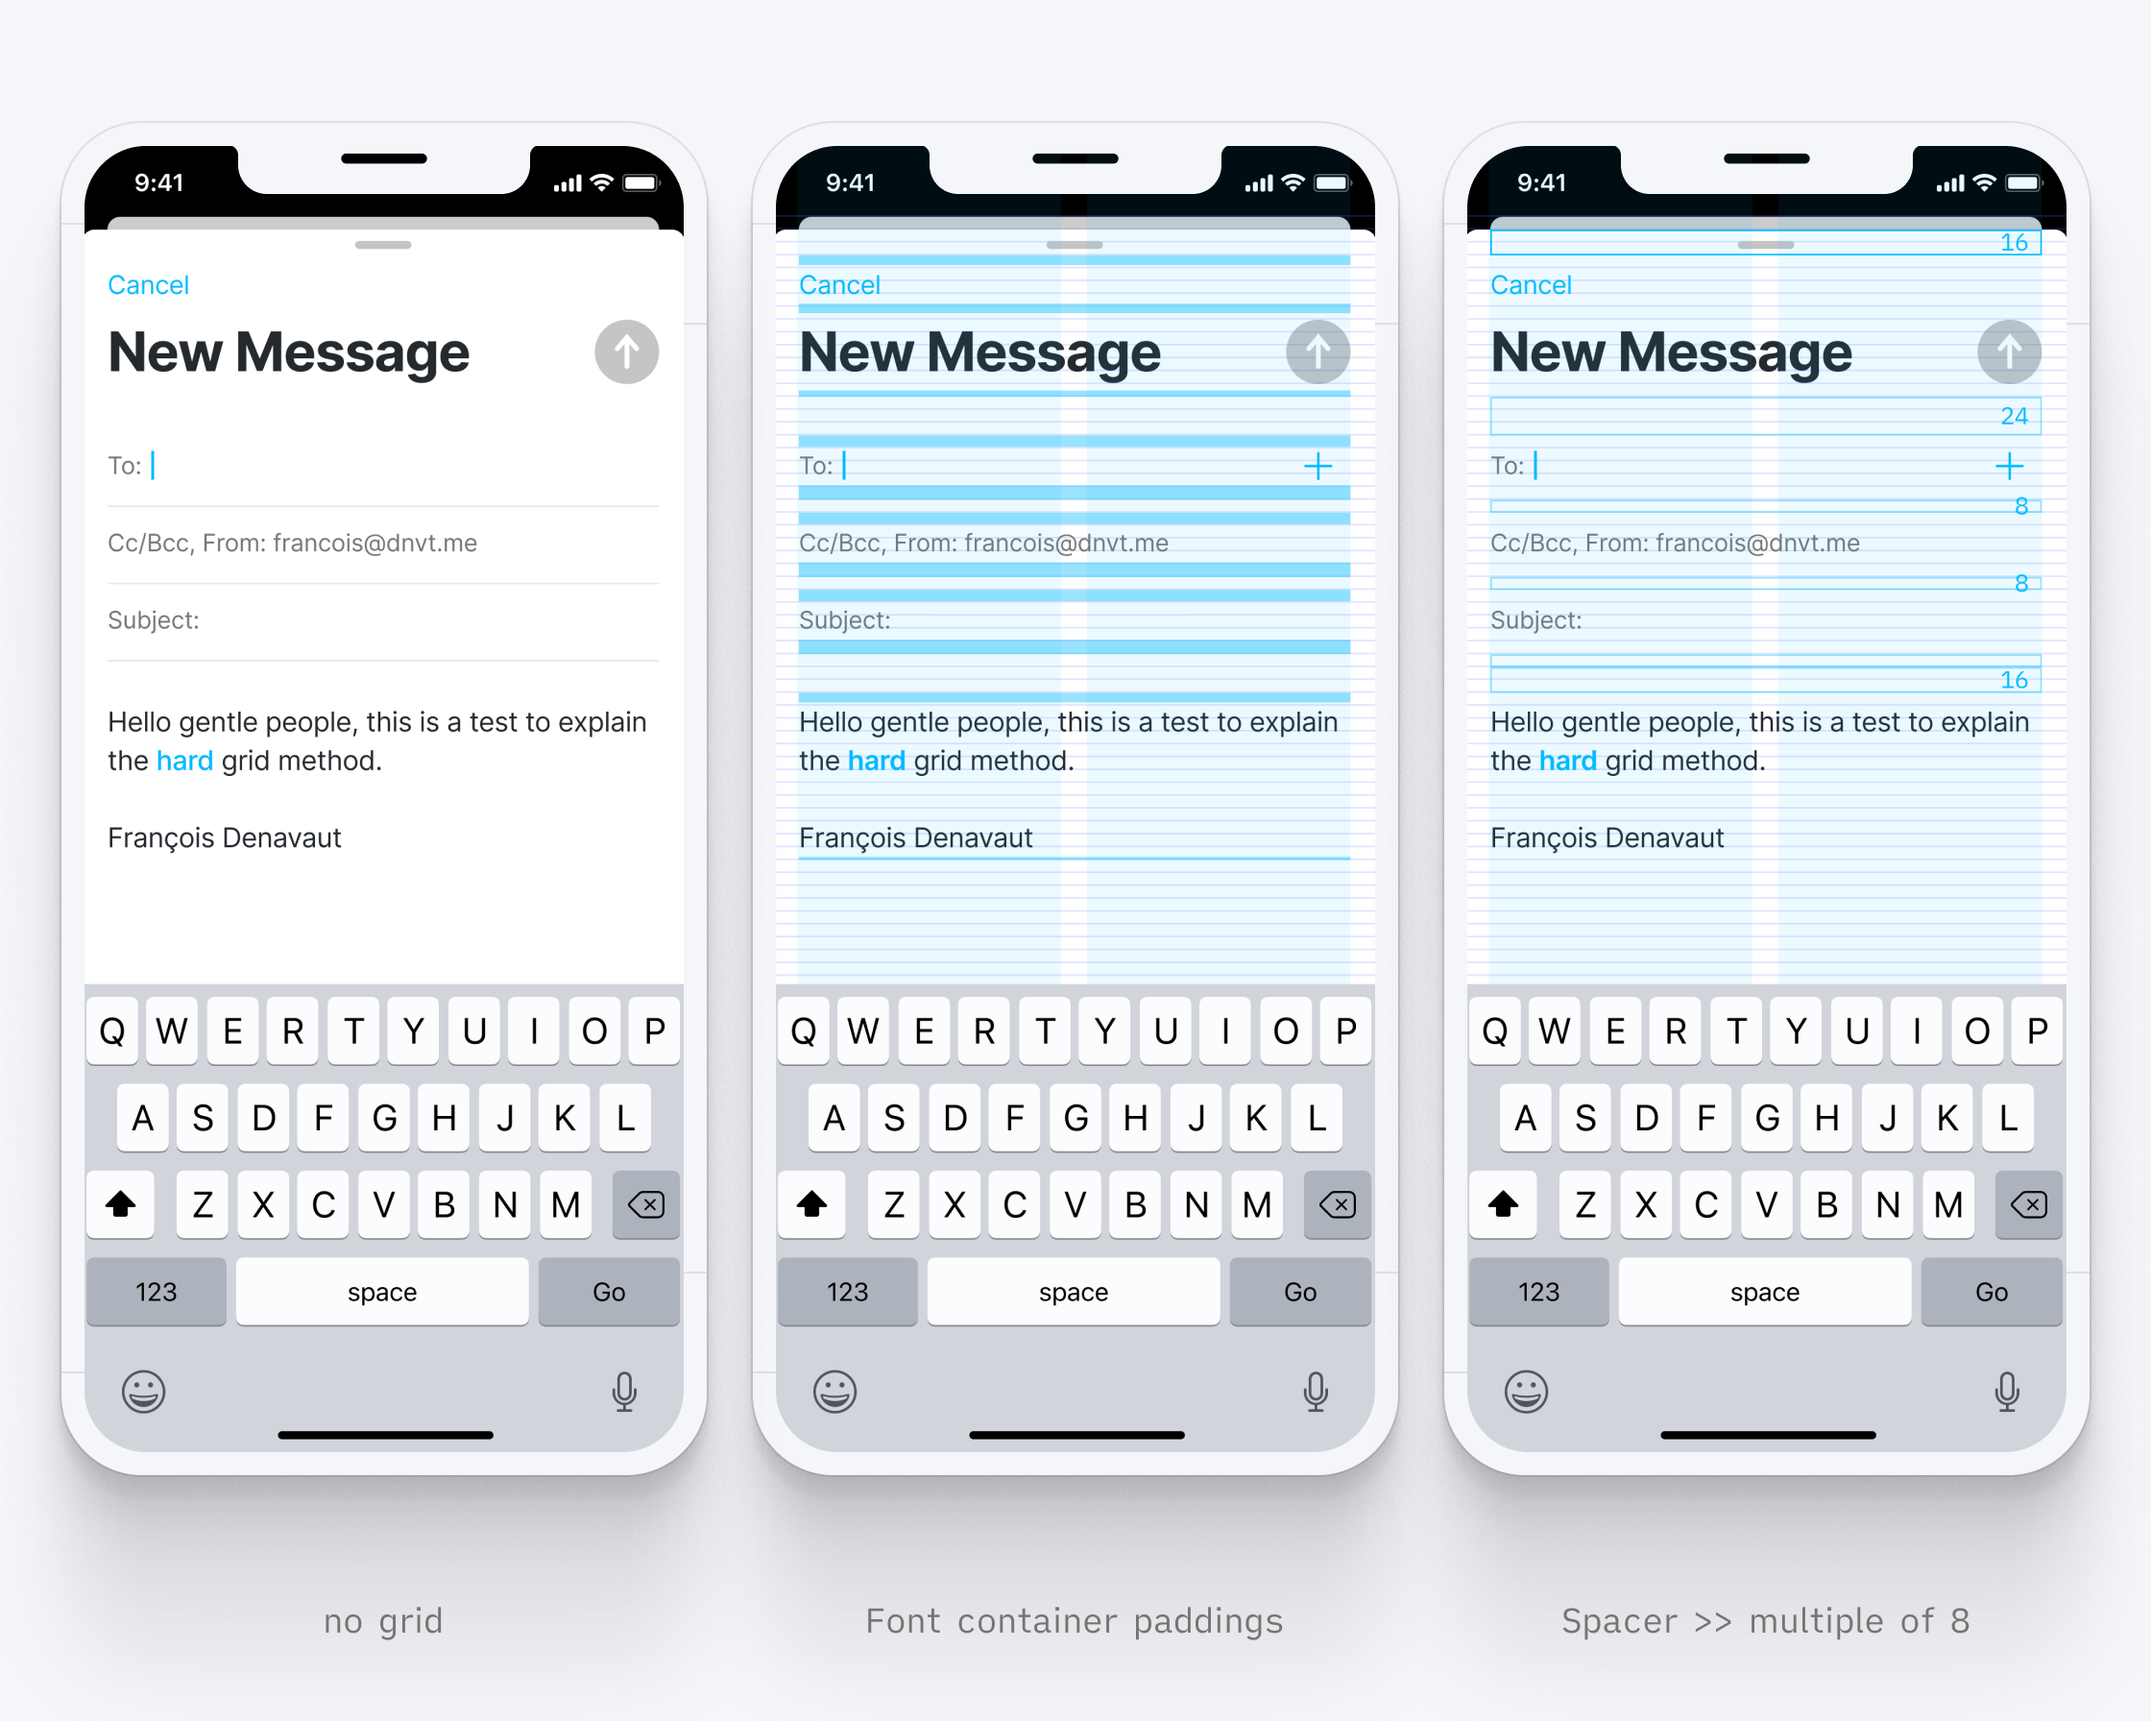
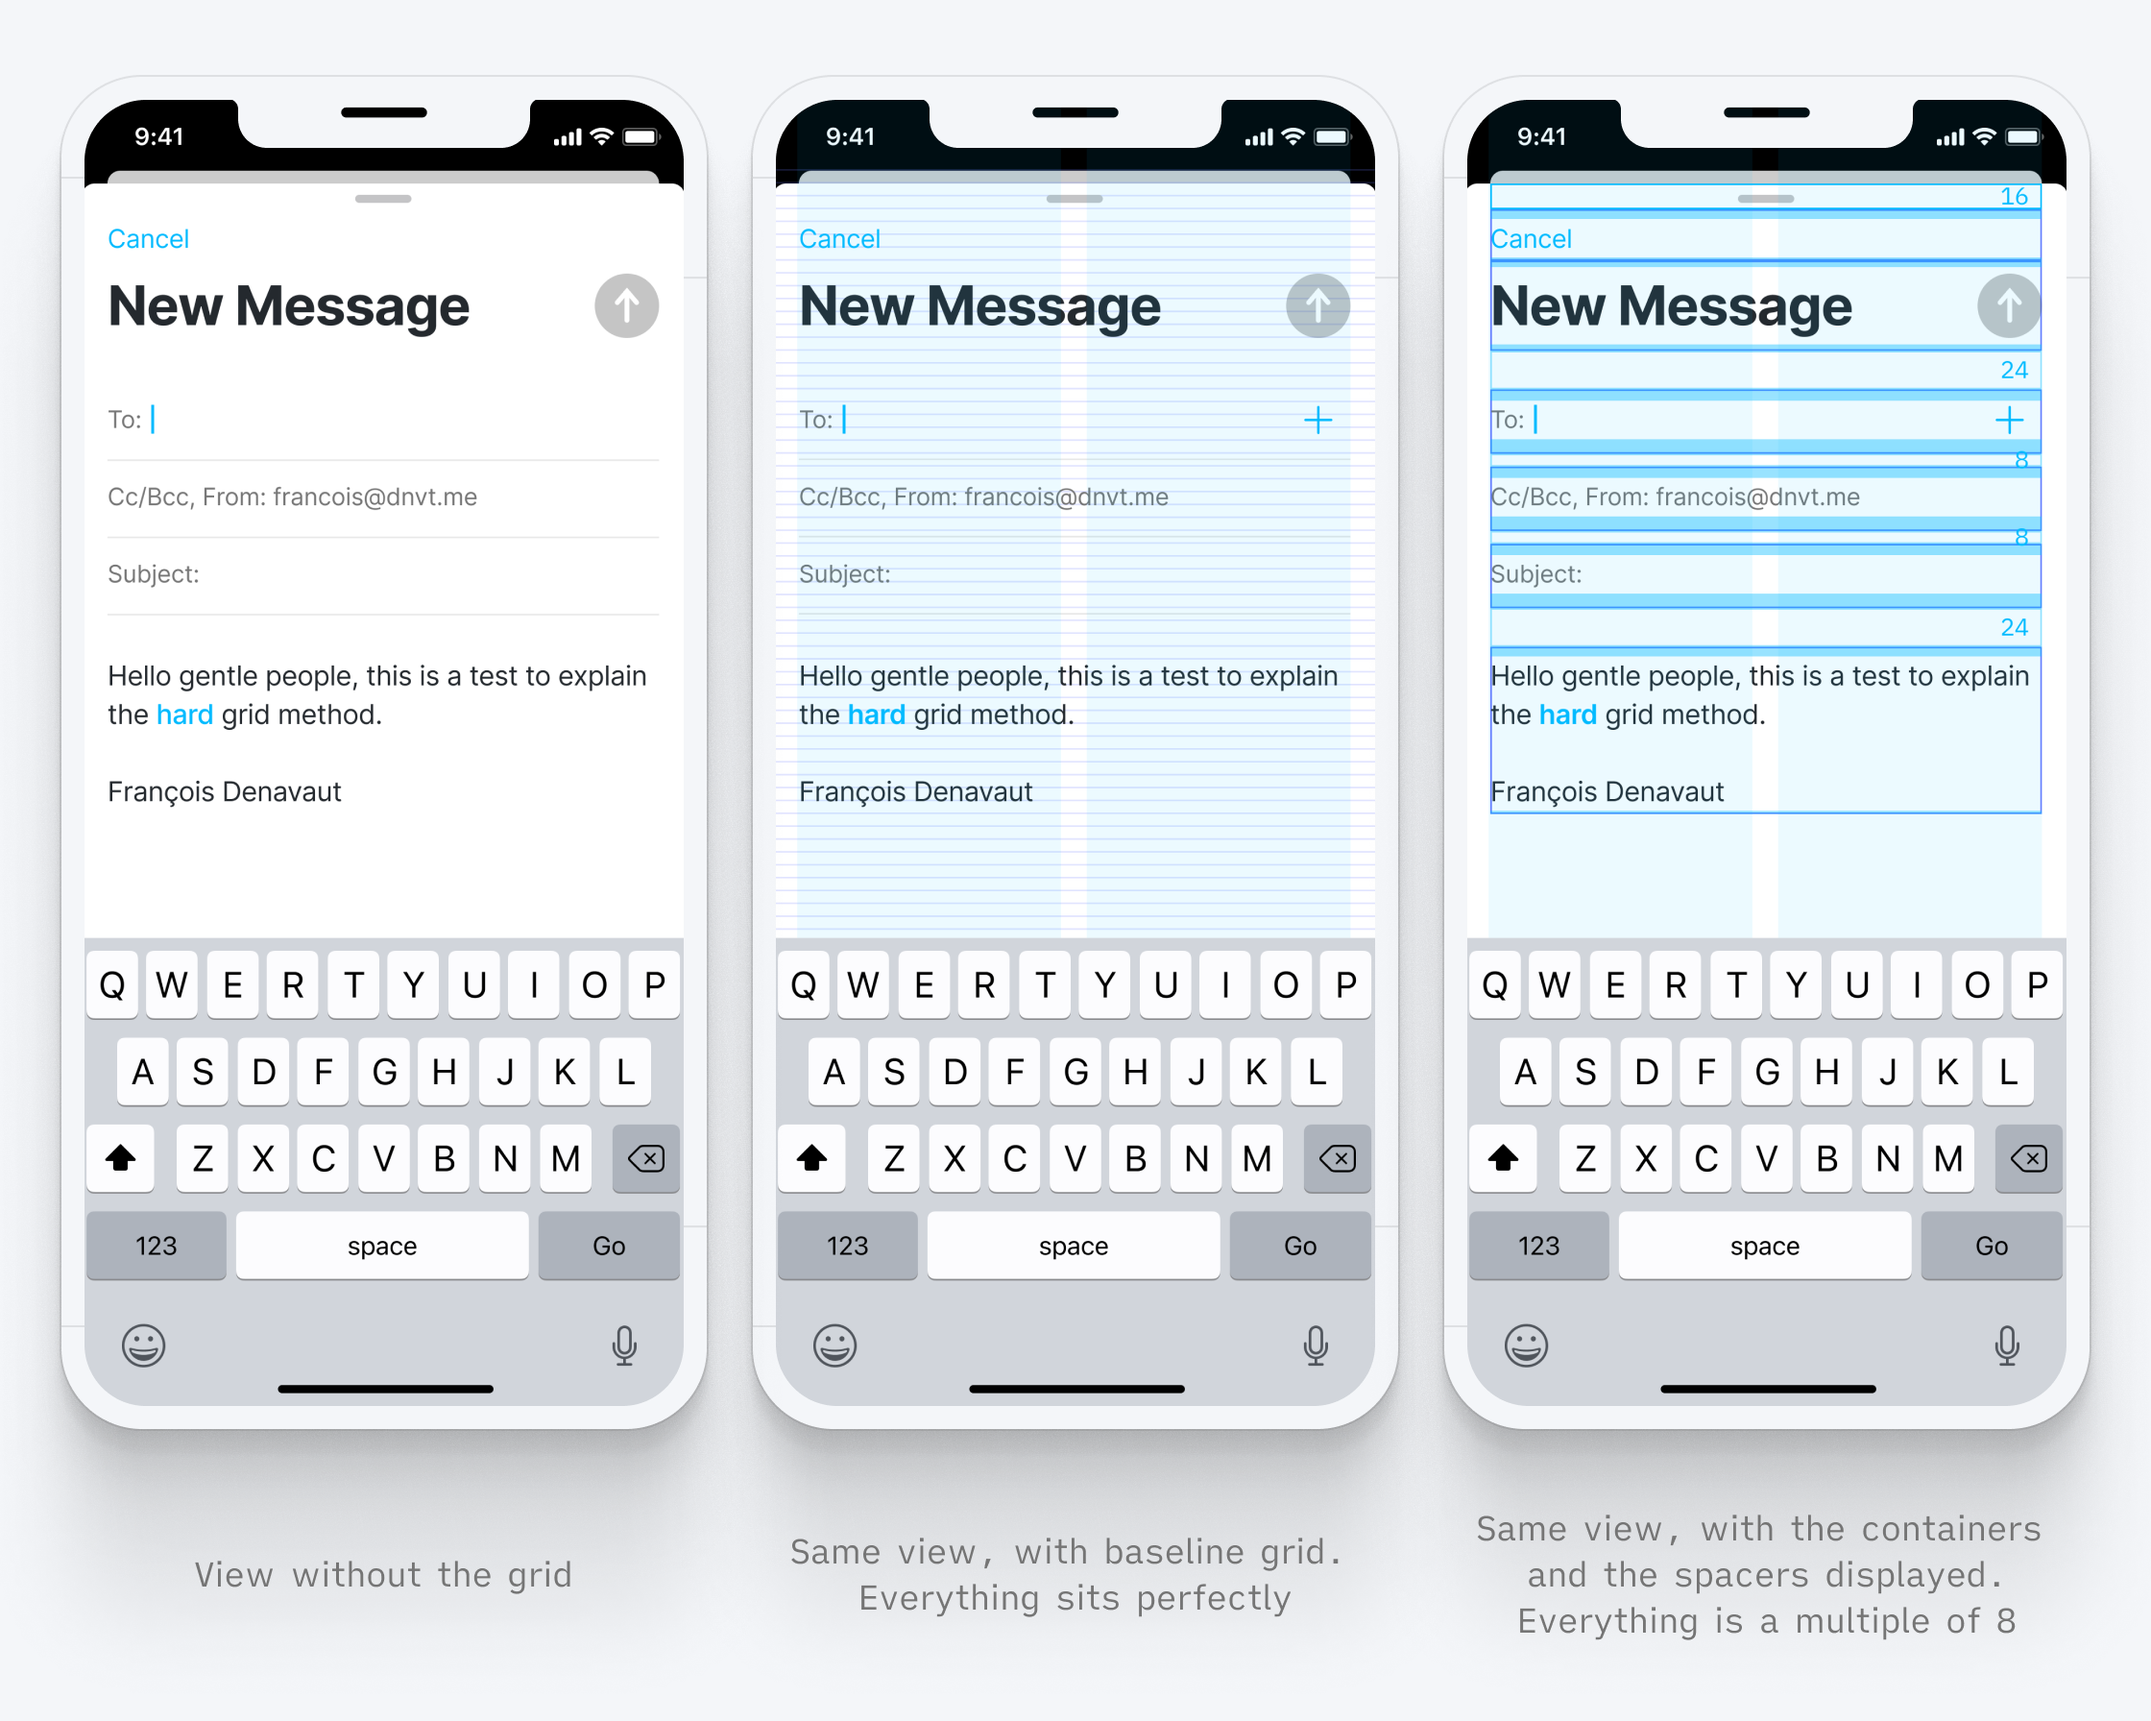
Adding images for the font containers

diff --git a/src/routes/writings/Grid/On-the-8px-grid.md b/src/routes/writings/Grid/On-the-8px-grid.md
@@ -60,8 +60,7 @@ TLDR; I'm encapsulating each element to be their own 8px height elements (yes, f
 - Code your own 8px grid to have a visual reference to build all your components
  One of the many reasons for not implementing the Hard grid system is that there aren't grid systems available for frontEnd developers – whereas it is simple to get in Figma or Sketch. So I built a Hook to have a grid available for every new project.
 
-![Browser grid off](../../assets/images/../../../assets/images/Writings/Grid/browser-grid-off.png)
-![Browser grid on](../../assets/images/../../../assets/images/Writings/Grid/browser-grid-on.png)
+![Browser grid off](../../assets/images/../../../assets/images/Writings/Grid/show-grid.gif)
 
 ### Encapsulate font as components divisible by 8
 
@@ -86,9 +85,22 @@ Set it up once and for all for each font used in your design system – and only
 
 ![Font Boxing Demo](../../assets/images/../../../assets/images/Writings/Grid/font-boxing-demo.png)
 
-So just to make sure the benefits are clear, let's look at the initial example, with our custom 8px based height containers. See what's hapenning here? All spacers are now multiple of 8. Implementation start to already feel as simple as with the soft grid method.
+```javascript
+export const FontH3 = () => {
+  <FontSpacer height={3} />
+  <h3>This is your text component</h3>
+  <FontSpacer height={5} />
+}
+```
+
+So just to make sure the benefits are clear, let's look at the initial example, with our custom 8px based height containers. Same design view without the grid system, with the baseline grid and finally with the padding grid.
 
 ![Font Boxing Demo](../../assets/images/../../../assets/images/Writings/Grid/font-boxing-benefits.png)
+
+See what's hapenning here? All spacers are now multiple of 8 but everything sits perfectly on the baseline by default.
+**Implementation start to already feel as simple as with the soft grid method.**
+
+![Font Exemple](../../assets/images/../../../assets/images/Writings/Grid/font-exemple.png)
 
 ### Control each component as a component divisible by 8
 
